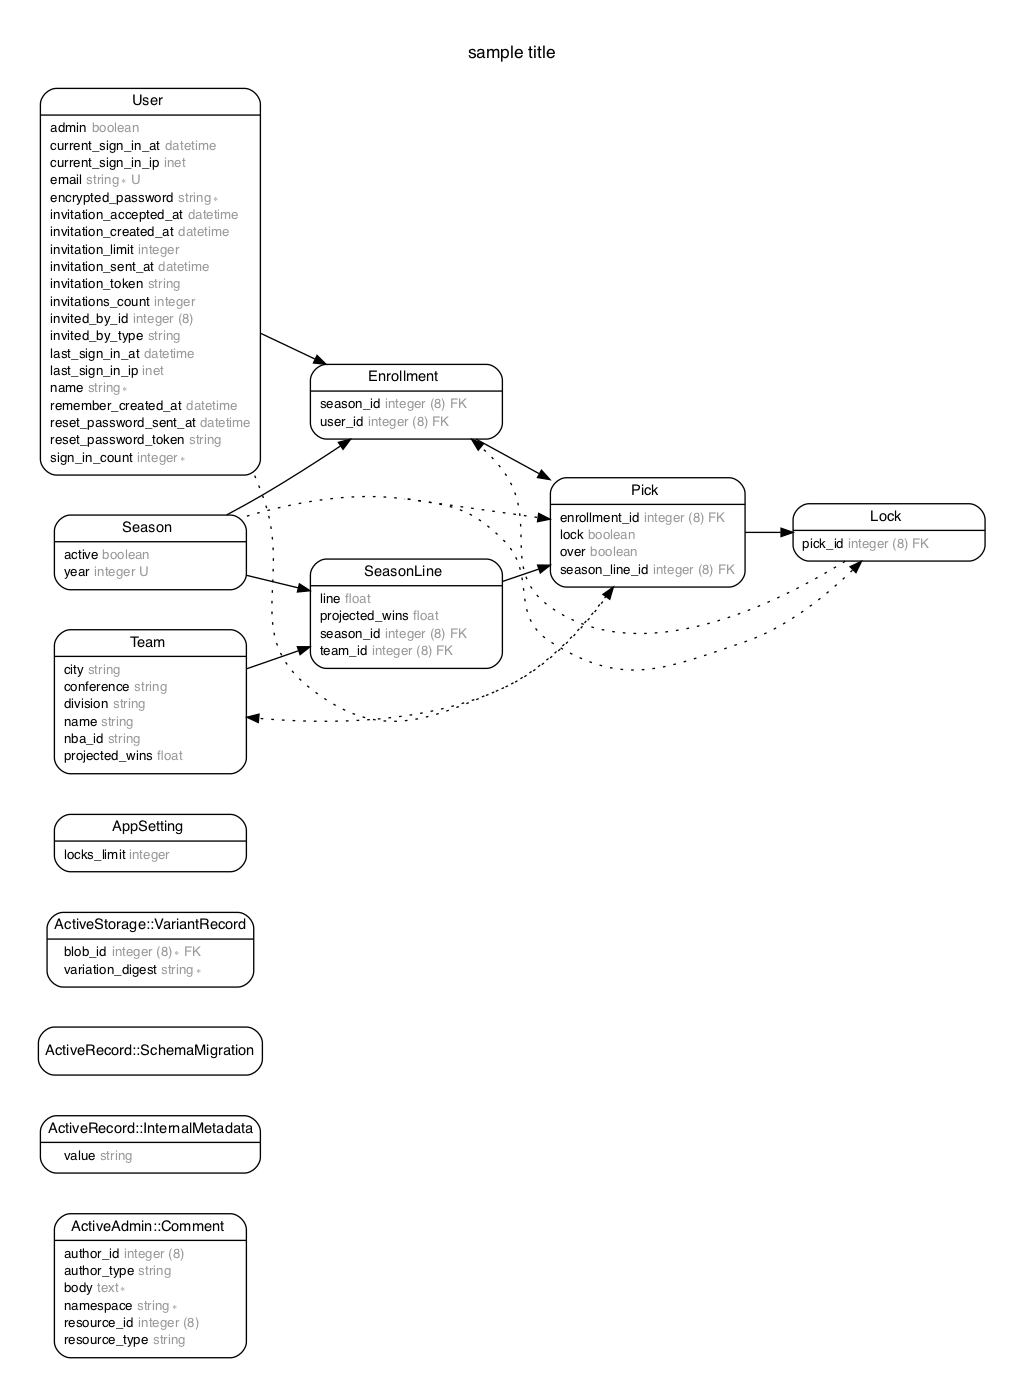
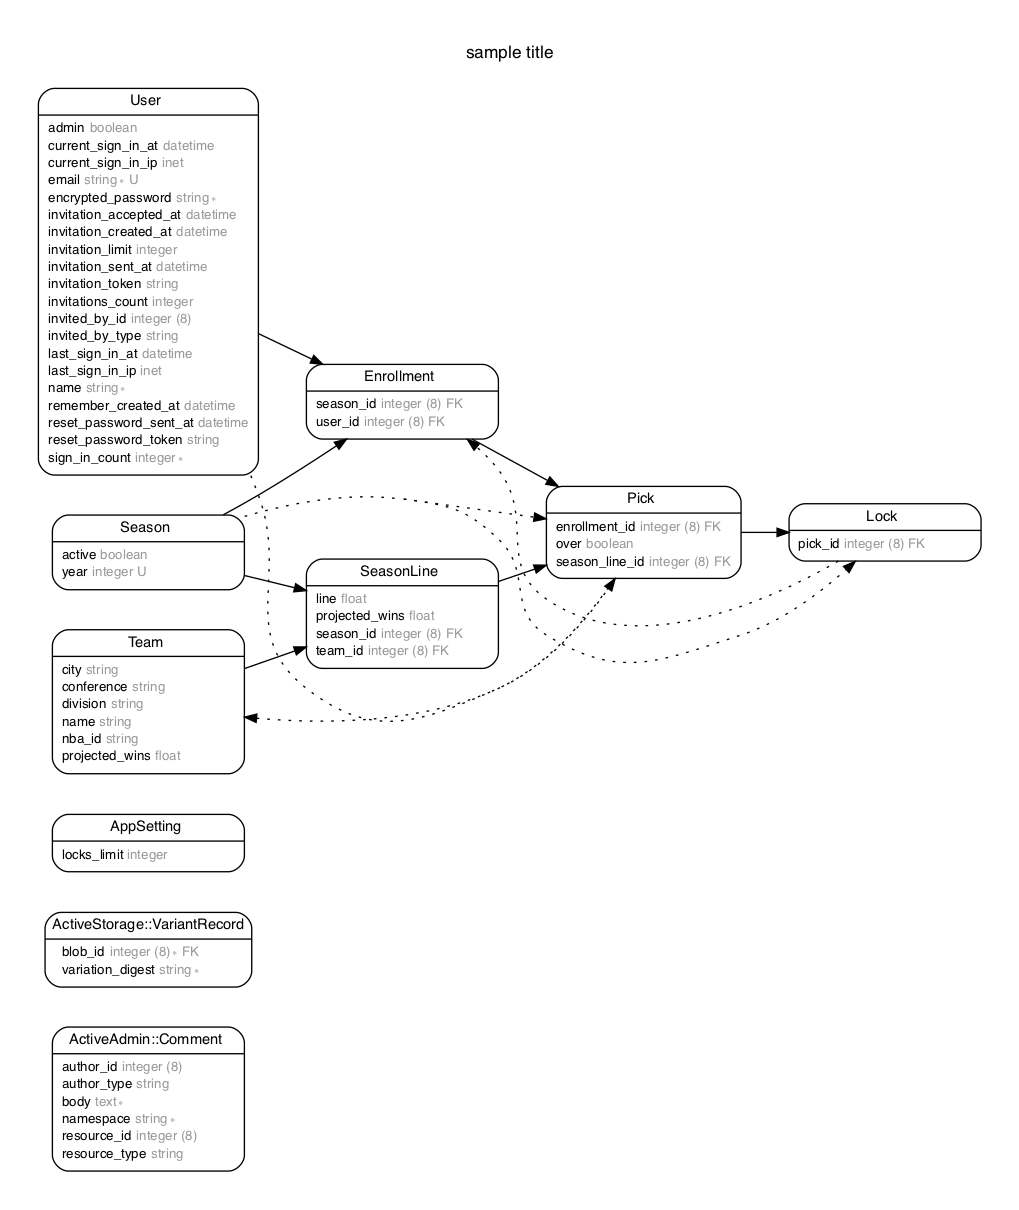
Setup Annotate gem & annotate!

diff --git a/app/models/user.rb b/app/models/user.rb
@@ -2,11 +2,37 @@
 #
 # Table name: users
 #
-#  id         :bigint(8)        not null, primary key
-#  name       :string
-#  email      :string
-#  created_at :datetime         not null
-#  updated_at :datetime         not null
+#  id                     :bigint           not null, primary key
+#  admin                  :boolean          default(FALSE)
+#  current_sign_in_at     :datetime
+#  current_sign_in_ip     :inet
+#  email                  :string           not null
+#  encrypted_password     :string           default(""), not null
+#  invitation_accepted_at :datetime
+#  invitation_created_at  :datetime
+#  invitation_limit       :integer
+#  invitation_sent_at     :datetime
+#  invitation_token       :string
+#  invitations_count      :integer          default(0)
+#  invited_by_type        :string
+#  last_sign_in_at        :datetime
+#  last_sign_in_ip        :inet
+#  name                   :string           not null
+#  remember_created_at    :datetime
+#  reset_password_sent_at :datetime
+#  reset_password_token   :string
+#  sign_in_count          :integer          default(0), not null
+#  created_at             :datetime         not null
+#  updated_at             :datetime         not null
+#  invited_by_id          :bigint
+#
+# Indexes
+#
+#  index_users_on_email                 (email) UNIQUE
+#  index_users_on_invitation_token      (invitation_token) UNIQUE
+#  index_users_on_invited_by            (invited_by_type,invited_by_id)
+#  index_users_on_invited_by_id         (invited_by_id)
+#  index_users_on_reset_password_token  (reset_password_token) UNIQUE
 #
 
 class User <ApplicationRecord

diff --git a/app/models/pick.rb b/app/models/pick.rb
@@ -2,13 +2,19 @@
 #
 # Table name: picks
 #
-#  id            :bigint(8)        not null, primary key
-#  user_id       :integer
-#  team_id       :integer
-#  over          :boolean
-#  lock          :boolean
-#  created_at    :datetime         not null
-#  updated_at    :datetime         not null
+#  id             :bigint           not null, primary key
+#  lock           :boolean
+#  over           :boolean
+#  created_at     :datetime         not null
+#  updated_at     :datetime         not null
+#  enrollment_id  :bigint
+#  season_line_id :bigint
+#
+# Indexes
+#
+#  index_picks_on_enrollment_id                     (enrollment_id)
+#  index_picks_on_season_line_id                    (season_line_id)
+#  index_picks_on_season_line_id_and_enrollment_id  (season_line_id,enrollment_id) UNIQUE
 #
 
 class Pick < ApplicationRecord

diff --git a/app/models/season_line.rb b/app/models/season_line.rb
@@ -1,3 +1,26 @@
+# == Schema Information
+#
+# Table name: season_lines
+#
+#  id             :bigint           not null, primary key
+#  line           :float
+#  projected_wins :float
+#  created_at     :datetime         not null
+#  updated_at     :datetime         not null
+#  season_id      :bigint
+#  team_id        :bigint
+#
+# Indexes
+#
+#  index_season_lines_on_season_id              (season_id)
+#  index_season_lines_on_team_id                (team_id)
+#  index_season_lines_on_team_id_and_season_id  (team_id,season_id) UNIQUE
+#
+# Foreign Keys
+#
+#  fk_rails_...  (season_id => seasons.id)
+#  fk_rails_...  (team_id => teams.id)
+#
 class SeasonLine < ApplicationRecord
   belongs_to :team
   belongs_to :season

diff --git a/test/models/season_line_test.rb b/test/models/season_line_test.rb
@@ -1,3 +1,26 @@
+# == Schema Information
+#
+# Table name: season_lines
+#
+#  id             :bigint           not null, primary key
+#  line           :float
+#  projected_wins :float
+#  created_at     :datetime         not null
+#  updated_at     :datetime         not null
+#  season_id      :bigint
+#  team_id        :bigint
+#
+# Indexes
+#
+#  index_season_lines_on_season_id              (season_id)
+#  index_season_lines_on_team_id                (team_id)
+#  index_season_lines_on_team_id_and_season_id  (team_id,season_id) UNIQUE
+#
+# Foreign Keys
+#
+#  fk_rails_...  (season_id => seasons.id)
+#  fk_rails_...  (team_id => teams.id)
+#
 require 'test_helper'
 
 class SeasonLineTest < ActiveSupport::TestCase

diff --git a/app/models/enrollment.rb b/app/models/enrollment.rb
@@ -1,3 +1,24 @@
+# == Schema Information
+#
+# Table name: enrollments
+#
+#  id         :bigint           not null, primary key
+#  created_at :datetime         not null
+#  updated_at :datetime         not null
+#  season_id  :bigint
+#  user_id    :bigint
+#
+# Indexes
+#
+#  index_enrollments_on_season_id              (season_id)
+#  index_enrollments_on_user_id                (user_id)
+#  index_enrollments_on_user_id_and_season_id  (user_id,season_id) UNIQUE
+#
+# Foreign Keys
+#
+#  fk_rails_...  (season_id => seasons.id)
+#  fk_rails_...  (user_id => users.id)
+#
 class Enrollment < ApplicationRecord
   belongs_to :user
   belongs_to :season

diff --git a/test/models/enrollment_test.rb b/test/models/enrollment_test.rb
@@ -1,3 +1,24 @@
+# == Schema Information
+#
+# Table name: enrollments
+#
+#  id         :bigint           not null, primary key
+#  created_at :datetime         not null
+#  updated_at :datetime         not null
+#  season_id  :bigint
+#  user_id    :bigint
+#
+# Indexes
+#
+#  index_enrollments_on_season_id              (season_id)
+#  index_enrollments_on_user_id                (user_id)
+#  index_enrollments_on_user_id_and_season_id  (user_id,season_id) UNIQUE
+#
+# Foreign Keys
+#
+#  fk_rails_...  (season_id => seasons.id)
+#  fk_rails_...  (user_id => users.id)
+#
 require 'test_helper'
 
 class EnrollmentTest < ActiveSupport::TestCase

diff --git a/app/models/team.rb b/app/models/team.rb
@@ -2,16 +2,15 @@
 #
 # Table name: teams
 #
-#  id             :bigint(8)        not null, primary key
-#  nba_id         :string
+#  id             :bigint           not null, primary key
 #  city           :string
-#  name           :string
 #  conference     :string
 #  division       :string
-#  line           :float
+#  name           :string
+#  projected_wins :float
 #  created_at     :datetime         not null
 #  updated_at     :datetime         not null
-#  projected_wins :float
+#  nba_id         :string
 #
 
 class Team < ApplicationRecord

diff --git a/app/models/lock.rb b/app/models/lock.rb
@@ -1,3 +1,20 @@
+# == Schema Information
+#
+# Table name: locks
+#
+#  id         :bigint           not null, primary key
+#  created_at :datetime         not null
+#  updated_at :datetime         not null
+#  pick_id    :bigint
+#
+# Indexes
+#
+#  index_locks_on_pick_id  (pick_id)
+#
+# Foreign Keys
+#
+#  fk_rails_...  (pick_id => picks.id)
+#
 class Lock < ApplicationRecord
   belongs_to :pick
   has_one  :enrollment, through: :pick

diff --git a/test/models/lock_test.rb b/test/models/lock_test.rb
@@ -1,3 +1,20 @@
+# == Schema Information
+#
+# Table name: locks
+#
+#  id         :bigint           not null, primary key
+#  created_at :datetime         not null
+#  updated_at :datetime         not null
+#  pick_id    :bigint
+#
+# Indexes
+#
+#  index_locks_on_pick_id  (pick_id)
+#
+# Foreign Keys
+#
+#  fk_rails_...  (pick_id => picks.id)
+#
 require 'test_helper'
 
 class LockTest < ActiveSupport::TestCase

diff --git a/app/models/season.rb b/app/models/season.rb
@@ -1,3 +1,13 @@
+# == Schema Information
+#
+# Table name: seasons
+#
+#  id         :bigint           not null, primary key
+#  active     :boolean          default(FALSE)
+#  year       :integer
+#  created_at :datetime         not null
+#  updated_at :datetime         not null
+#
 class Season < ApplicationRecord
   has_many  :enrollments, dependent: :destroy
   has_many  :season_lines, dependent: :destroy

diff --git a/test/models/season_test.rb b/test/models/season_test.rb
@@ -1,3 +1,13 @@
+# == Schema Information
+#
+# Table name: seasons
+#
+#  id         :bigint           not null, primary key
+#  active     :boolean          default(FALSE)
+#  year       :integer
+#  created_at :datetime         not null
+#  updated_at :datetime         not null
+#
 require 'test_helper'
 
 class SeasonTest < ActiveSupport::TestCase

diff --git a/app/models/app_setting.rb b/app/models/app_setting.rb
@@ -1,2 +1,11 @@
+# == Schema Information
+#
+# Table name: app_settings
+#
+#  id          :bigint           not null, primary key
+#  locks_limit :integer          default(3)
+#  created_at  :datetime         not null
+#  updated_at  :datetime         not null
+#
 class AppSetting < ApplicationRecord
 end
